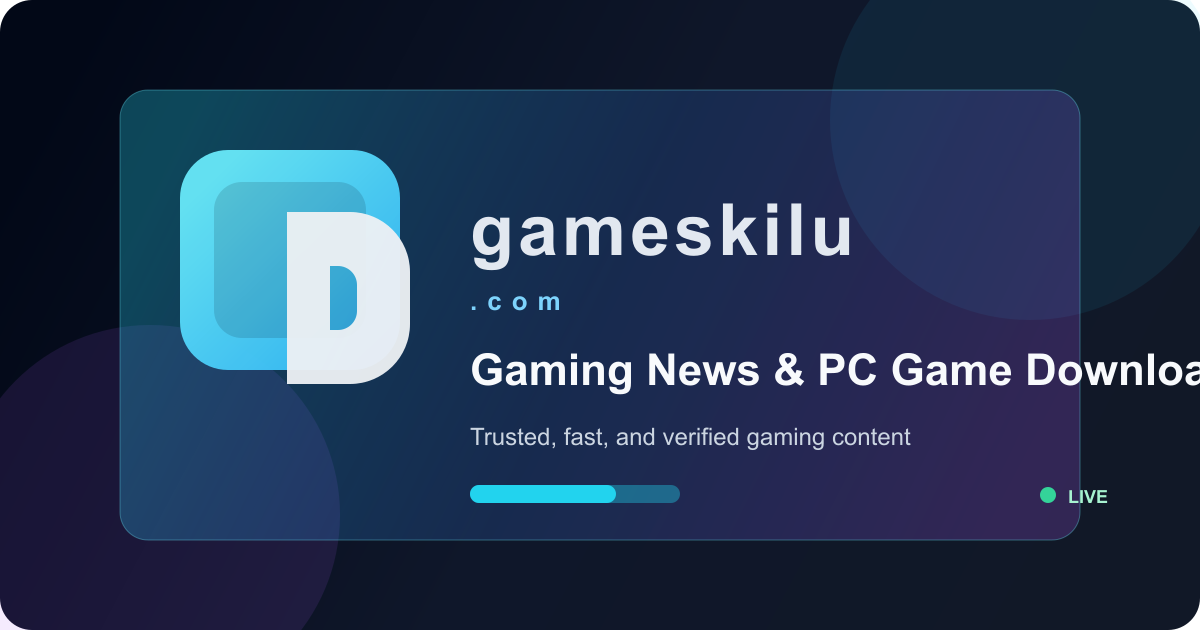
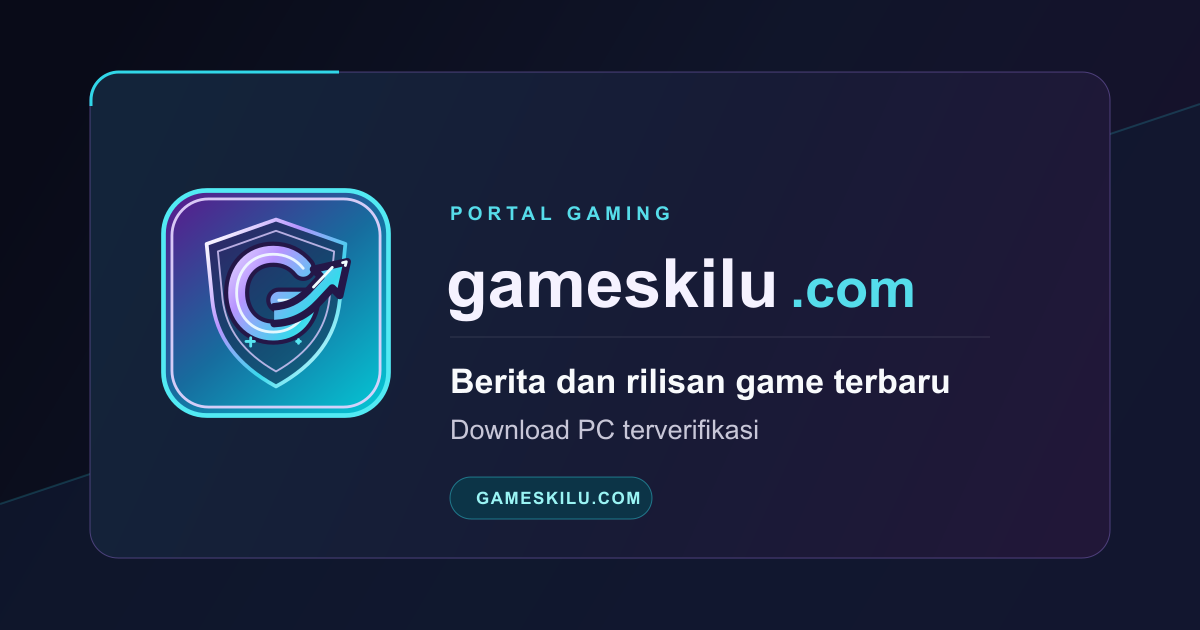
Improve shared links and homepage preview

diff --git a/app/page.js b/app/page.js
@@ -109,7 +109,7 @@ export default function GamePortal() {
 
     const title = `${post.title || 'gameskilu.com'} | gameskilu.com`;
     const description = post.content ? post.content.replace(/<[^>]*>/g, '').slice(0, 160) : 'Portal berita game terbaru dan link download PC game aman.';
-    const image = post.image || 'https://gameskilu.com/og-default.png';
+    const image = 'https://gameskilu.com/og-default.png?v=2';
 
     document.title = title;
 
@@ -239,8 +239,6 @@ export default function GamePortal() {
 
     const shareUrlObj = new URL(window.location.origin);
     shareUrlObj.searchParams.set('post', String(post.id));
-    if (post.image) shareUrlObj.searchParams.set('shareImage', post.image);
-    if (post.title) shareUrlObj.searchParams.set('shareTitle', post.title);
 
     const shareUrl = encodeURIComponent(shareUrlObj.toString());
     const shareText = encodeURIComponent(`Lihat postingan ini di gameskilu.com: ${post.title}`);

diff --git a/app/layout.js b/app/layout.js
@@ -39,7 +39,7 @@ export const metadata = {
       "Portal berita game terbaru, ulasan hardware, dan tempat download PC game gratis, aman, serta terverifikasi.",
     images: [
       {
-        url: "https://gameskilu.com/og-default.png",
+        url: "https://gameskilu.com/og-default.png?v=2",
         width: 1200,
         height: 630,
         alt: "gameskilu.com gaming news and download portal",
@@ -52,7 +52,7 @@ export const metadata = {
     description:
       "Portal berita game terbaru, ulasan hardware, dan tempat download PC game gratis, aman, serta terverifikasi.",
     images: [
-      "https://gameskilu.com/og-default.png",
+      "https://gameskilu.com/og-default.png?v=2",
     ],
   },
 };
